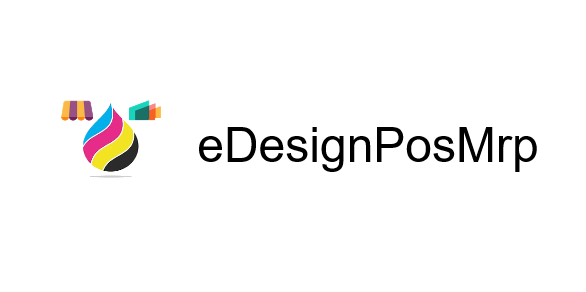
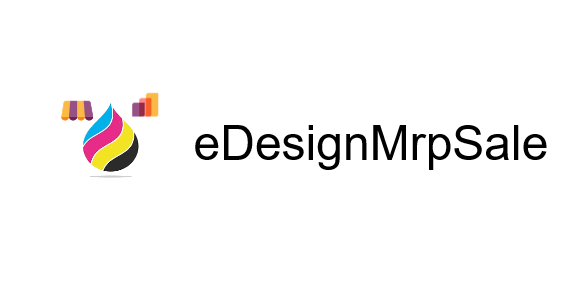
[UPD] README

Changed region(s): [[0.3072, 0.4315, 0.9522, 0.5856], [0.215, 0.3082, 0.2765, 0.4315]]

diff --git a/e_design_mrp_sale/static/description/index.html b/e_design_mrp_sale/static/description/index.html
@@ -3,11 +3,11 @@
         <div class="row align-items-center p-3">
             <div class="col-md-8">
                 <h1 class="display-4 fw-bold mb-3 text-white">
-                    <img src="icon.png" alt="eDesignMrp" class="img-fluid  rounded-circle me-3 bg-light" style="width: 60px; height: 60px; background: white; padding: 8px;">
-                    eDesignMrp
+                    <img src="icon.png" alt="eDesignMrpSale" class="img-fluid  rounded-circle me-3 bg-light" style="width: 60px; height: 60px; background: white; padding: 8px;">
+                    eDesignMrpSale
                 </h1>
                 <p class="lead mb-4">
-                    Ensures design information flows automatically from Sales to manufacturing orders, giving production teams visual references.
+                    Ensures design information flows automatically from Sale Orders to manufacturing orders, giving production teams visual references.
                 </p>
             </div>
             <div class="col-md-4 text-center">
@@ -27,17 +27,8 @@
                     <div class="row h-100 p-2">
                         <div class="card p-0">
                             <div class="row p-3">
-                                <h3 class="card-title fw-bold">MRP & Design Integration</h3>
-                                <p class="card-text small text-muted">Link designs directly from the product template view.</p>
-                            </div>
-                            <hr class="mt-0"/>
-                            <div class="row justify-content-start p-1">
-                                <div class="col-xl-6">
-                                    <img src="assets/screenshots/1.png" class="card-img-top" alt="Product Design Link">
-                                </div>
-                                <div class="col-xl-6">
-                                    <img src="assets/screenshots/1-1.png" class="card-img-top" alt="Design App">
-                                </div>
+                                <h3 class="card-title fw-bold">Sale , MRP & Design Integration</h3>
+                                <p class="card-text small text-muted">Link designs directly from the sale order to manofacturing view.</p>
                             </div>
                         </div>
                     </div>
@@ -88,7 +79,7 @@
 
 <footer class="bg-primary py-4 mt-5">
     <div class="container text-center">
-        <a href="https://github.com/acevedoesteban999/eAddons" class="btn btn-light btn-sm me-2">
+        <a href="https://github.com/acevedoesteban999/eAddons/e_design_mrp_sale" class="btn btn-light btn-sm me-2">
             Documantation
         </a>
     </div>

diff --git a/e_design_bundle/__manifest__.py b/e_design_bundle/__manifest__.py
@@ -6,7 +6,18 @@
     'author': 'acevedoesteban999@gmail.com',
     'website': 'https://github.com/acevedoesteban999/eAddons',
     'category': '',
-    'depends': ['base','e_design','e_pos_mrp','e_design_pos_mrp','e_design_website','e_design_sale','e_design_account' ],
+    'depends': [
+        'e_design',
+        'e_pos_mrp',
+        'e_design_mrp_pos',
+        'e_design_mrp_sale',
+        'e_design_pos',
+        
+        'e_design_website',
+        'e_design_website_tv_catalog',
+        'e_design_sale',
+        'e_design_account' ,
+    ],
     'images': [
         'static/description/banner.png',
     ],

diff --git a/e_design_mrp_sale/__manifest__.py b/e_design_mrp_sale/__manifest__.py
@@ -2,7 +2,7 @@
 {
     'name': 'eDesignMrpSale',
     'version': '18.0.1.0.0',
-    'summary': """Integration MRP with eDesign""",
+    'summary': """Integration SALE-MRP with eDesign""",
     'description':"""
                     It allows you to view the designs of the product 
                     to be manufactured in the manufacturing orders.

diff --git a/e_design_mrp_sale/README.md b/e_design_mrp_sale/README.md
@@ -1,15 +1,3 @@
-# ePosMrpDesign
-#### POS, MRP & Design Integration
-This module ensures design information flows automatically from Sales to manufacturing orders, giving production teams visual references.
-
-**Design displayed on Manufacturing Order**
-![IAMGE](static/description/assets/screenshots/1.png)
-
-![IMAGE](static/description/assets/screenshots/1-1.png)
-
-Selected designs appear directly on manufacturing orders, providing clear visual guidance for production staff.
-
-Features
-- Design Propagation: Automatically transfers selected product designs from POS orders to manufacturing orders
-- Visual Manufacturing Reference: Displays design images and specifications directly on production orders
-- Complete Traceability: Maintains design context throughout the entire sales-to-production chain
+# eDesignMrpSale
+#### Sale, MRP & Design Integration
+This module ensures design information flows automatically from Sale Orders to manufacturing orders, giving production teams visual references.

diff --git a/e_design_mrp_pos/README.md b/e_design_mrp_pos/README.md
@@ -1,3 +1,3 @@
-# ePosMrpDesign
+# eDesignMrpPos
 #### POS, MRP & Design Integration
 This module ensures design information flows automatically from POS sales to manufacturing orders, giving production teams visual references. Depends on external e-POS-MRP module

diff --git a/e_design_mrp/README.md b/e_design_mrp/README.md
@@ -1,4 +1,4 @@
-# ePosMrpDesign
+# eDesignMrp
 #### MRP & Design Integration
 This module ensures link or automaic select deigns in manufacturing orders, giving production teams visual references.
 
